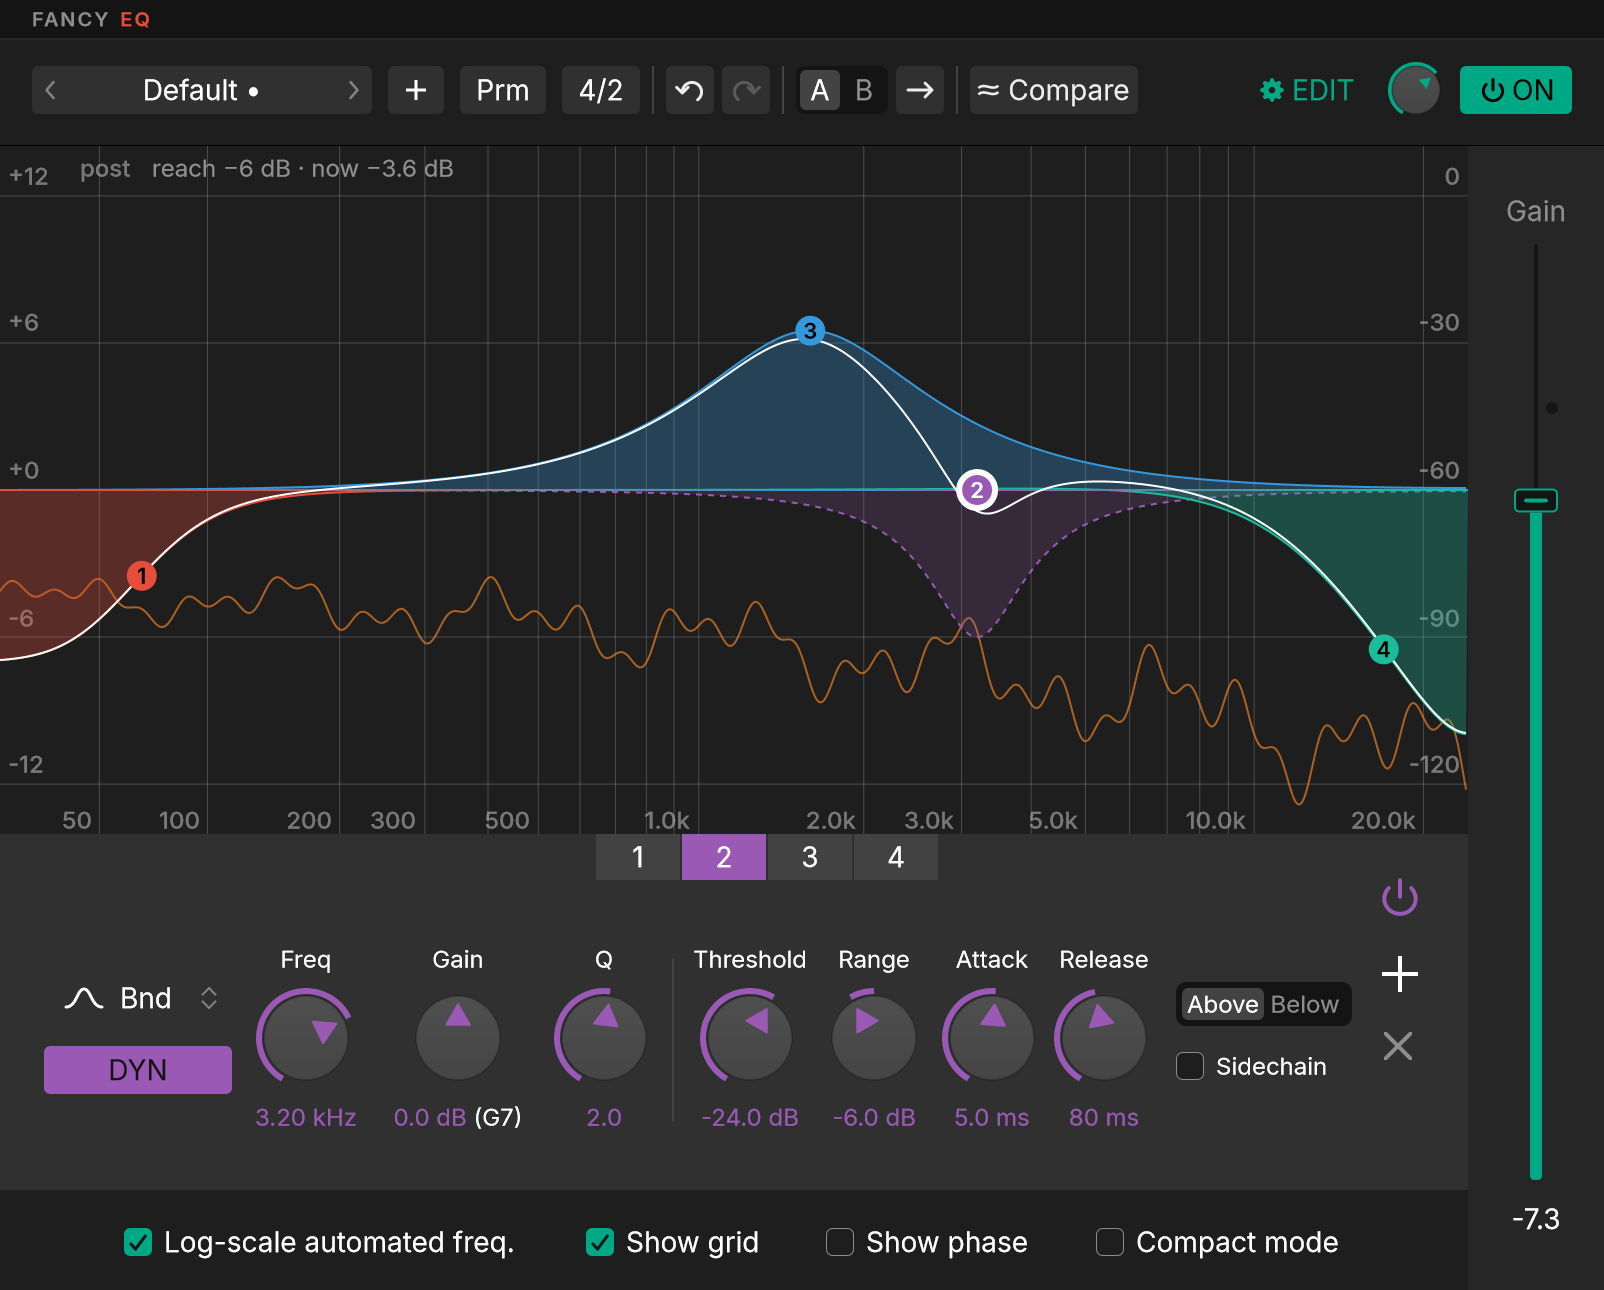
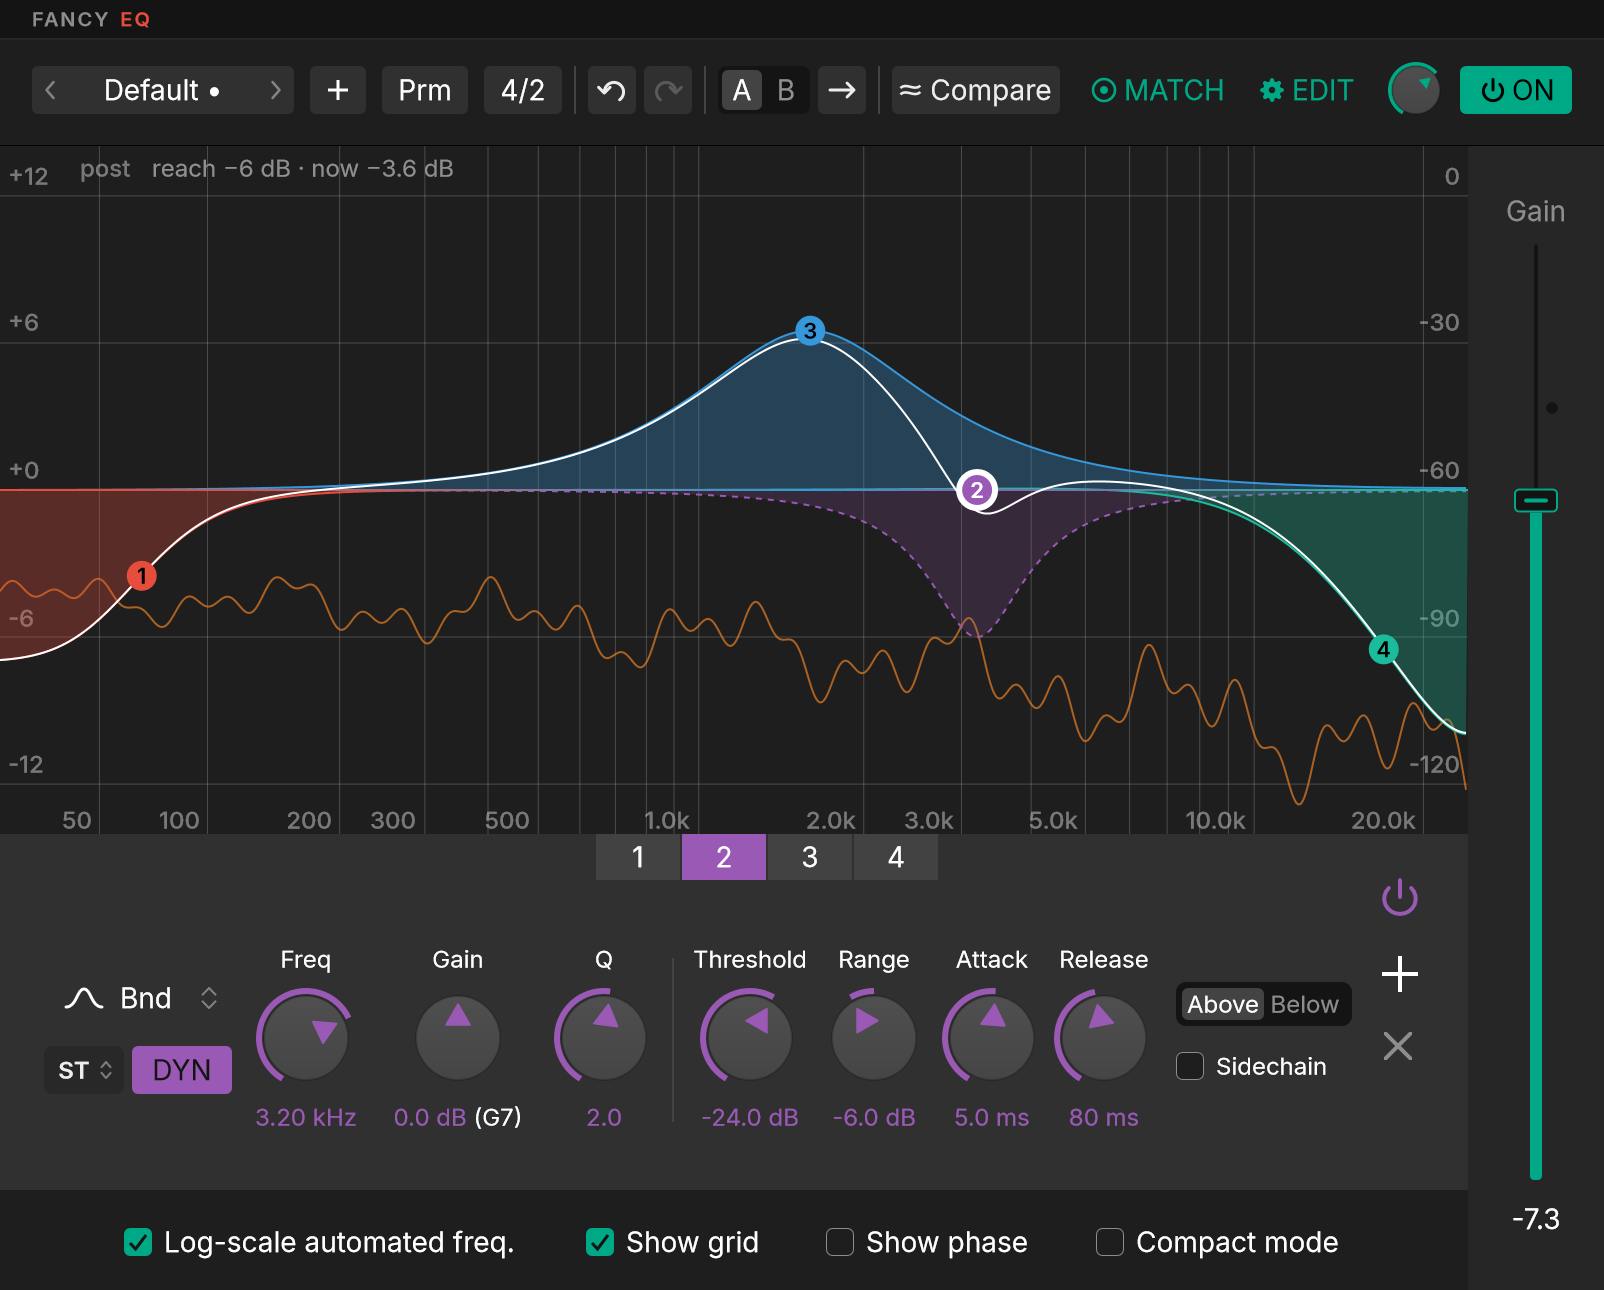
v1.4.0: version, README (what's new, screenshots), PROGRESS

diff --git a/README.md b/README.md
@@ -1,13 +1,13 @@
 # Fancy Plugs
 
-Fourteen VST3 effects for Windows 10 and 11 (x64), built for personal use and signed off by ear in REAPER. Version **1.3.0**.
+Fourteen VST3 effects for Windows 10 and 11 (x64), built for personal use and signed off by ear in REAPER. Version **1.4.0**.
 
 | Plugin | What it does |
 |---|---|
 | Fancy Kicker | Low-end enhancer: Boost (one big Freq knob, Wet and Dry) or, new in 1.3.0, Sub, which adds an octave or two below |
 | Fancy Exciter | Parallel high-frequency exciter with clip boost and a mix-back control |
-| Fancy Comp | Compressor with a Threshold fader over the input meter, a filtered detector, a sidechain and an output limiter |
-| Fancy EQ | Up to 16 bands with draggable handles, a live analyzer and, new in 1.2.0, dynamic bands |
+| Fancy Comp | Compressor with a Threshold fader over the input meter, a filtered detector, a sidechain and an output limiter; new in 1.4.0, Character, upward compression, Auto threshold and a detector EQ |
+| Fancy EQ | Up to 24 bands with draggable handles, a live analyzer, dynamic bands and, new in 1.4.0, mid/side per band and Match |
 | Fancy Verb | Convolution reverb built from a chain of modules: impulse file, filters, echo generator, normalize |
 | Fancy Delay | Up to 16 delay taps, each with its own feedback, loop filters, bit crush, width, pan and ping-pong |
 | Fancy MultiComp | Up to 8 bands of compression behind flat-summing crossovers and, new in 1.2.0, upward compression |
@@ -19,7 +19,19 @@ Fourteen VST3 effects for Windows 10 and 11 (x64), built for personal use and si
 | Fancy Sature | New in 1.3.0: saturator with Tape, Tube, Transistor and Clip curves, even/odd Character, Tone, oversampling and auto gain |
 | Fancy Room | New in 1.3.0: algorithmic reverb from small room to long hall, with Freeze, tempo-synced pre-delay, a send mode and ducking |
 
-## What's new in 1.3.0
+## What's new in 1.4.0
+
+- **Fancy EQ: 24 bands and a channel per band.** Up to 24 bands, and each one can work on Stereo, Left, Right, Mid or Side, from a small chip under its type. The white curve shows the total for the selected band's channel, Linear phase follows the channels in use, and the analyzer can show any one channel.
+- **Fancy EQ: Match.** Learn a reference and your material, from the sidechain or captured one after the other, and Match writes ordinary bands into free slots to move your track towards the reference, as one undo step. Amount, Smoothing, the number of bands and a frequency range set how far it goes.
+- **Fancy Comp: Character.** A Warm or Bright saturation stage, before or after the compressor, with Drive, using Fancy Sature's curves.
+- **Fancy Comp: upward compression,** as in Fancy MultiComp, with Up threshold, Up ratio, Max lift and a Floor, and a transfer curve that shows both directions.
+- **Fancy Comp: Auto threshold** follows the input's long-term level, so the gain reduction stays steady between quiet and loud passages. The Threshold meter shows the threshold in use.
+- **Fancy Comp: detector EQ and 8x.** A low shelf, a bell and a high shelf shape what the detector hears, with a curve you can drag. Oversampling now goes to 8x. The EDIT drawer has four pages: Detector, Character, Upward and Options.
+- **Three new Comp presets:** Warm Bus, Upward Vocal and Level Rider.
+
+Projects saved with 1.0 to 1.3 load and sound exactly as before. Every new setting defaults to the old behaviour.
+
+## What was new in 1.3.0
 
 - **Five new plugins:** Fancy Limit, Fancy DS, Fancy DS-Mini, Fancy Sature and Fancy Room (table above).
 - **Sub mode in Fancy Kicker.** A Boost | Sub switch at the top. Sub tracks the kick's pitch and adds a clean sub an octave or two below, under Cutoff. Boost sounds exactly as before.
@@ -29,17 +41,6 @@ Fourteen VST3 effects for Windows 10 and 11 (x64), built for personal use and si
 - **Listen switches are temporary.** Comp's and Gate's Preview filter and FIR's Listen switches now turn off when you close the window and are never saved, like the new plugins' Listen. A project saved with one of them on opens with it off; nothing else about old projects changes.
 
 Projects saved with 1.0, 1.1 and 1.2 load and sound exactly as before.
-
-## What was new in 1.2.0
-
-- **Undo, redo, A/B and Compare in every plugin.** There are 100 steps of undo and redo (Ctrl+Z and Ctrl+Y), and two settings slots, A and B, with a copy button. Compare matches the loudness of the dry signal so you can judge the processing at equal level.
-- **Styled menus, dropdowns, tooltips, typed values and dialogs** that match the rest of the design, instead of the plain Windows ones.
-- **Host compatibility.** Offline renders now match playback. Keys you press reach the host, so the space bar works with a plugin window focused. The plugins follow the host's display scaling, report latency changes to the host, and Comp, MultiComp, FIR and Gate have sidechain inputs. Every plugin passes Steinberg's VST3 validator, pluginval and a host-behaviour test in CI.
-- **Dynamic EQ (Fancy EQ).** Any bell, shelf, tilt or notch can be made dynamic, cutting or boosting above or below a threshold, optionally keyed from a sidechain.
-- **Upward compression (Fancy MultiComp).** Each band can lift quiet passages, with Max lift and a Floor. Global Depth and Time controls scale the processing, and a "Big squash" preset uses all of it.
-- **Adaptive noise tracking (Fancy FIR).** Subtract mode can follow a noise floor that changes over time, using minimum statistics, while leaving speech, music and sustained tones alone. It runs on the learned profile, the tracked one, or both.
-
-Projects saved with 1.0 and 1.1 load and sound exactly as before. Every new parameter defaults to the old behaviour.
 
 ## The plugins
 
@@ -57,11 +58,19 @@ The screenshots below are rendered by CI from the current build, at 2× scale.
 
 <img src="docs/images/comp.png" width="934" alt="Fancy Comp">
 
+The EDIT drawer's Upward page, with the static curve and the current lift:
+
+<img src="docs/images/comp-upward.png" width="934" alt="Fancy Comp's EDIT drawer on the Upward page">
+
 ### Fancy EQ
 
 Shown with band 2 set as a dynamic cut. The dashed outline shows the most it can cut, and the filled curve shows what it's cutting right now.
 
 <img src="docs/images/eq-dynamic.png" width="802" alt="Fancy EQ with a dynamic band">
+
+The Match card over a learned reference (purple), the current material (grey) and the target (dashed):
+
+<img src="docs/images/eq-match.png" width="802" alt="Fancy EQ's Match card">
 
 ### Fancy Verb
 

diff --git a/docs/PROGRESS.md b/docs/PROGRESS.md
@@ -4,15 +4,8 @@ Short status for starting a session. The full history to 13 November 2026 (run n
 
 ## Now
 
-- **Current item: Q2.4, Fancy EQ** (channel per band, 24 bands, Match): built, waiting for the user's REAPER check. Design and "As built" (section 7) in `docs/eq.md`; mockup `design/phase3-mockup-src/eq-q24.html`.
-  - Green: run 43611318357 (`7df8468`), 460 test cases. Screenshots `eq`, `eq-channel` and `eq-match` checked against the mockup. CPU in `docs/measurements/eq-q24.txt`.
-  - The EQ's minimum width is 724 px, up from 696, to fit `MATCH` in the header (user, 14 November 2026). Below 781 px the link is its icon alone.
-  - Next: the user's REAPER check (`docs/eq-checklist.md`, the two Q2.4 sections), then the release (v1.4.0), then Comp (Q2.5).
-- **Comp (Q2.5): built, green, waiting for the user's REAPER check.** Design and "As built" (section 10) in `docs/comp.md`; mockup `reference/phase3/23__comp_q25_mockup.png` (approved 14 November 2026).
-  - Green: run 43633937359 (`d21fb1b`), 476 test cases. Screenshots `comp-detector`, `comp-character`, `comp-upward`, `comp-options` checked against the mockup. CPU in `docs/measurements/comp-q25.txt`.
-  - CPU targets restated by the user (14 November 2026) as the cost added over the same oversampling: < 1.5 % at 4x (0.86 % measured), < 3 % at 8x (1.76 %), run 43639193810. The aliasing targets were lowered to what the model allows (As built).
-  - Built before EQ's REAPER sign-off, at the user's request: v1.4.0 can carry both, or EQ can be released from `25fb11c` first.
-  - Next: the user's REAPER check (`docs/comp-checklist.md`, the Q2.5 section).
+- **Releasing v1.4.0** (EQ Q2.4 and Comp Q2.5, both passed in REAPER by the user on 14 November 2026): version bumped, README updated; waiting for the release build.
+- **Next item: Verb (Q2.8)**: content, true stereo and modulation. Design note first (`docs/verb.md`, a "Phase 3 Q2.8" section), then the user's decisions, then a mockup.
 - **Latest release:** [v1.3.0](https://github.com/alfrednoonoo/fancy-plugs/releases/tag/v1.3.0), 13 November 2026.
 
 ## Releases
@@ -37,6 +30,7 @@ Every item below is built, green in CI and passed by the user in REAPER. Each ha
 - **Phase 2.1:** S styled pop-ups, H host compatibility (`docs/host-compat.md`), W undo/A-B/Compare, D dynamic EQ, U upward compression, A adaptive noise tracking. Design notes `docs/phase2_1-<item>.md`. Released as v1.2.0.
 - **Phase 3 Q1:** FancyBench benchmark host (`docs/phase3-Q1.md`, how-to `docs/bench.md`, results `docs/research/bench-2026-11-09.md`).
 - **Phase 3 Q2.1:** preset browser, free resizing, title strip (`docs/phase3-Q2.1.md`, `docs/presets-checklist.md`).
+- **Phase 3 Q2.4:** Fancy EQ, channel per band, 24 bands, Match (`docs/eq.md`, section 7). **Q2.5:** Fancy Comp, Character, Upward, Auto threshold, detector EQ, 8x (`docs/comp.md`, section 10). REAPER checks passed on 14 November 2026.
 - **Phase 3 Q5 step 1:** design rules, `docs/DESIGN_SYSTEM.md` (accents: Limit red, DS green, DS-Mini blue, Sature orange, Room purple).
 - **Phase 3 new plugins:** Fancy Limit (`docs/limit.md`), Fancy DS (`docs/ds.md`), Fancy DS-Mini (`docs/ds-mini.md`), Fancy Sature (`docs/sature.md`), Kicker's Sub mode (`docs/kicker-sub.md`), Fancy Room (`docs/room.md`). REAPER checks passed on 10 November (Limit) and 13 November 2026 (the rest).
 - **§0.3 Listen rule:** Listen and preview switches are temporary, never parameters (`FancyProcessor::setListening`, `ListenCheckbox`), retrofitted to Comp's and Gate's Preview filter and FIR's Listen. Limit's "Listen to removed" stays a parameter, by the user's choice.
@@ -47,10 +41,8 @@ Latest green run: 43639193810 (commit `5b71497`, Comp Q2.5), 476 test cases, plu
 
 In Q2's order (`docs/BUILD_PROMPT_PHASE3.md`), each with an approved design note first and signed off in REAPER before the next:
 
-1. EQ (Q2.4): mid/side, 24 bands, Match. Next.
-2. Comp (Q2.5): character and upward compression.
-3. Verb (Q2.8): content, true stereo and modulation.
-4. Then MultiComp (Q2.6), Delay (Q2.3), FIR (Q2.7) and Kicker (Q2.2, now reduced to Sub mode, which is done). Confirm this part of the order with the user when the first three are done.
+1. Verb (Q2.8): content, true stereo and modulation. Next.
+2. Then MultiComp (Q2.6), Delay (Q2.3), FIR (Q2.7) and Kicker (Q2.2, now reduced to Sub mode, which is done). Confirm this part of the order with the user when Verb is done.
 
 Mac comes after Windows is finished. Phase 4 holds Kicker's sidechain Duck, a transient shaper and a chorus.
 
@@ -61,6 +53,8 @@ Mac comes after Windows is finished. Phase 4 holds Kicker's sidechain Duck, a tr
 - Header knob and the EDIT drawer's Output are the same parameter.
 - Kicker's Sub mode: Divider engine only; a Spectral engine only if Divider disappoints. Q2.2's Harmonics mode is dropped and its Duck moves to Phase 4 (user, 11 November 2026).
 - Limit's CPU target is under 5 % at 4x with True peak (user, 10 November 2026).
+- Comp's Q2.5 CPU targets are the cost added over the same oversampling: under 1.5 % at 4x, under 3 % at 8x (user, 14 November 2026).
+- The EQ's minimum width is 724 px, to fit `MATCH` in the header (user, 14 November 2026).
 - The preset browser: one click loads and keeps it open; double-click or Enter loads and closes (user, 13 November 2026).
 - Phase 1 reference images live outside the public repo, in `C:/dev/fancy-plugs-private/reference/`. Never commit them.
 - Never store a Figma token in the repo. The Figma data is committed, so a token is only needed to export again.
